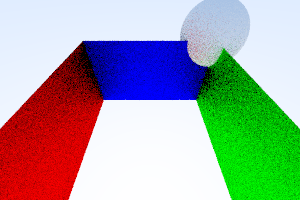
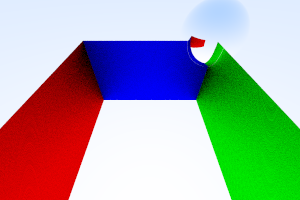
Make nice nicer.

Changed region(s): [[0.0, 0.0, 1.0, 1.0], [0.75, 0.99, 0.78, 1.0]]

diff --git a/week7/solution/ray.c b/week7/solution/ray.c
@@ -225,8 +225,8 @@ void nice_scene(struct vec *lookfrom, struct vec *lookat,
   materials[2].type = METAL;
   materials[2].metal.albedo = (struct vec) { 0, 0, 1 };
   materials[2].metal.fuzz = 0.9;
-  materials[3].type = LAMBERTIAN;
-  materials[3].lambertian.albedo = (struct vec) { 0.8, 0.8, 0.8 };
+  materials[3].type = DIELECTRIC;
+  materials[3].dielectric.ref_idx = 2;
 
   struct object *objects = calloc(*num_objects, sizeof(struct object));
 

diff --git a/week7/README.md b/week7/README.md
@@ -497,7 +497,7 @@ $ make ray
 Then we can run it as follows:
 
 ```
-$ ./ray out.ppm 300 200 10
+$ ./ray out.ppm 300 200 50
 ```
 
 This will produce a 300x200 image with 10 rays per pixel, in the PPM image
